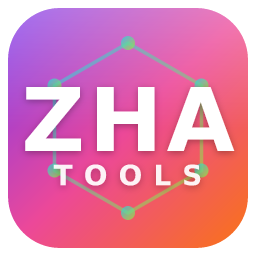
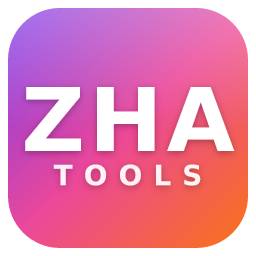
Prepare for 0.3.0
Update the logo to remove the hexagon grahpics

diff --git a/tools/make_logo.py b/tools/make_logo.py
@@ -130,10 +130,6 @@ def build_wordmark() -> str:
       <stop offset="0" stop-color="#ffffff" stop-opacity="0.28"/>
       <stop offset="0.5" stop-color="#ffffff" stop-opacity="0"/>
     </linearGradient>
-    <linearGradient id="mesh" x1="0" y1="0" x2="1" y2="1">
-      <stop offset="0" stop-color="#22D3EE"/>
-      <stop offset="1" stop-color="#A3E635"/>
-    </linearGradient>
     <filter id="shadow" x="-20%" y="-20%" width="140%" height="140%">
       <feDropShadow dx="0" dy="5" stdDeviation="7" flood-color="#000000" flood-opacity="0.30"/>
     </filter>
@@ -141,18 +137,6 @@ def build_wordmark() -> str:
 
   <rect x="16" y="16" width="480" height="480" rx="104" fill="url(#bg)"/>
   <rect x="16" y="16" width="480" height="480" rx="104" fill="url(#sheen)"/>
-
-  <g stroke="url(#mesh)" stroke-width="7" fill="none" opacity="0.55" stroke-linejoin="round">
-    <polygon points="256,86 403,171 403,341 256,426 109,341 109,171"/>
-  </g>
-  <g fill="url(#mesh)" opacity="0.7">
-    <circle cx="256" cy="86" r="14"/>
-    <circle cx="403" cy="171" r="14"/>
-    <circle cx="403" cy="341" r="14"/>
-    <circle cx="256" cy="426" r="14"/>
-    <circle cx="109" cy="341" r="14"/>
-    <circle cx="109" cy="171" r="14"/>
-  </g>
 
   <g filter="url(#shadow)" fill="#ffffff">
     {zha}

diff --git a/custom_components/zha_tools/__init__.py b/custom_components/zha_tools/__init__.py
@@ -47,7 +47,7 @@ from .rejoin import async_rejoin_device
 
 _LOGGER = logging.getLogger(__name__)
 
-__version__ = "0.2.0"
+__version__ = "0.3.0"
 
 # The reconfigure and re-interview actions share the same retry parameters;
 # per-call overrides are optional and fall back to the config entry options.

diff --git a/CHANGELOG.md b/CHANGELOG.md
@@ -5,6 +5,12 @@ All notable changes to this project will be documented in this file.
 The format is based on [Keep a Changelog](https://keepachangelog.com/en/1.1.0/),
 and this project adheres to [Semantic Versioning](https://semver.org/spec/v2.0.0.html).
 
+## [0.3.0] - 2026-06-21
+
+### Changed
+
+- Simplified the logo to the "ZHA TOOLS" wordmark only, removing the decorative hexagon graphic.
+
 ## [0.2.0] - 2026-06-21
 
 ### Added
@@ -23,5 +29,6 @@ Initial release of ZHA Tools, a Home Assistant custom integration that provides 
 - Debug logging of each attempt and of the binding / configure-reporting results reported back by ZHA.
 - A bundled brand logo with light and dark variants, served directly by the integration on Home Assistant 2026.3.0 and newer.
 
+[0.3.0]: https://github.com/egenix/zha-tools/compare/v0.2.0...v0.3.0
 [0.2.0]: https://github.com/egenix/zha-tools/compare/v0.1.0...v0.2.0
 [0.1.0]: https://github.com/egenix/zha-tools/releases/tag/v0.1.0
